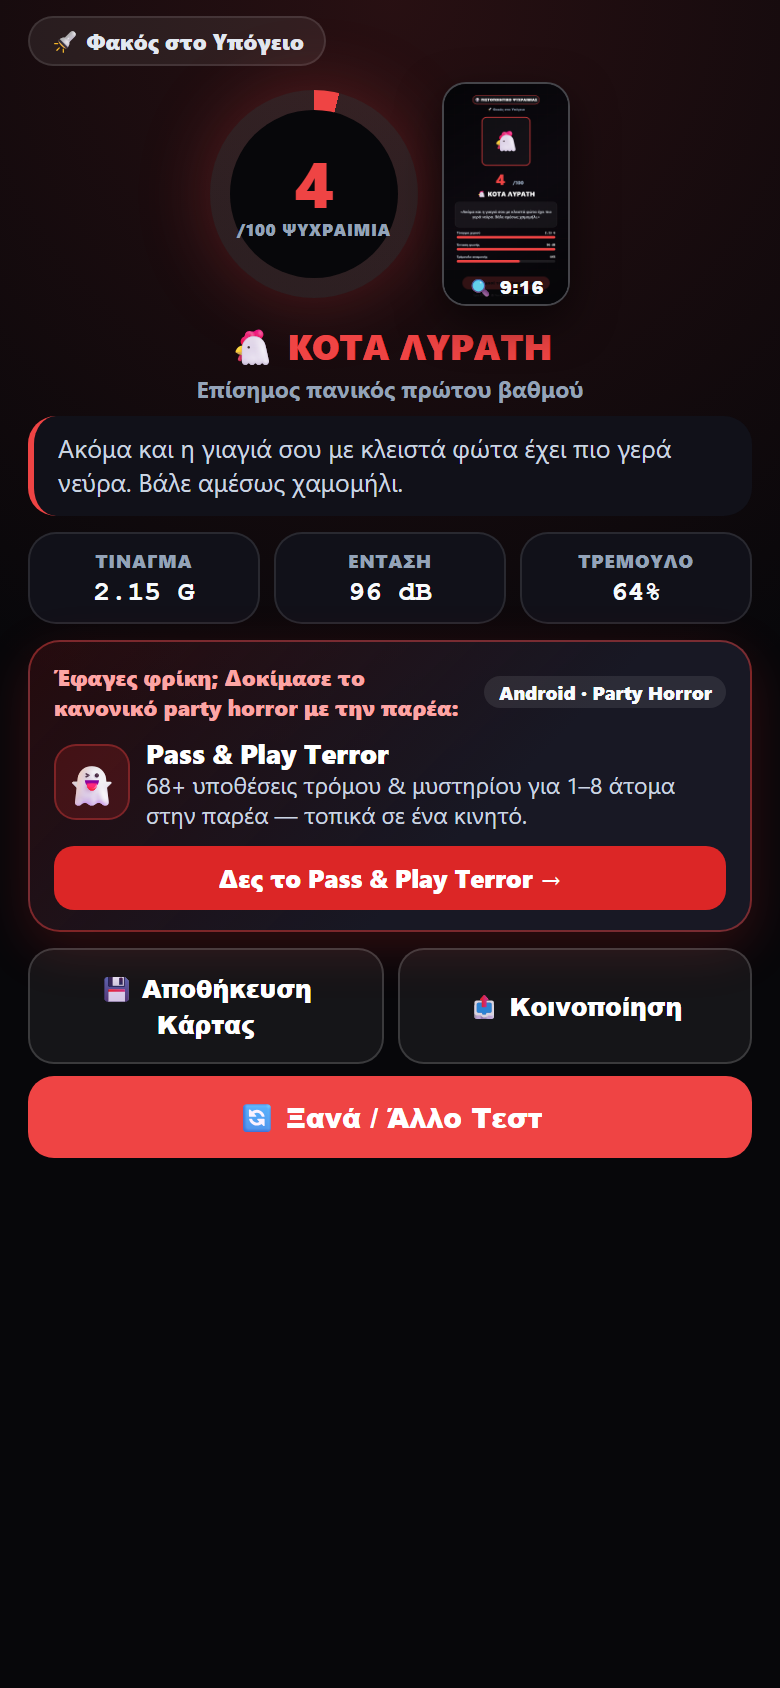
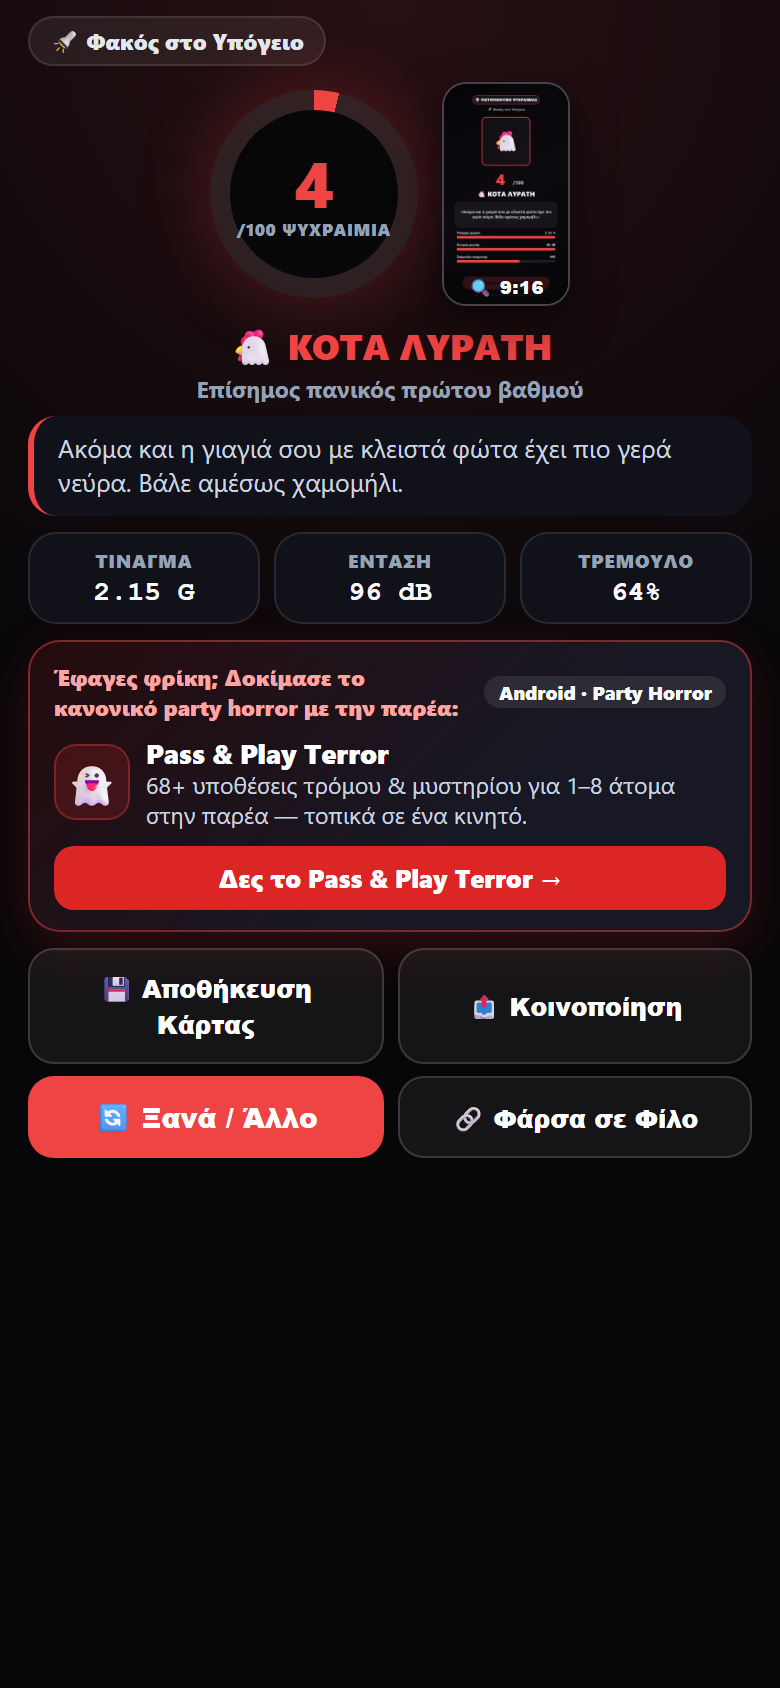
release(v1.3.0): spot-diff, hearing-age prank & secret ?mode links

Changed region(s): [[0.4615, 0.6161, 0.9846, 0.7085], [0.3077, 0.6469, 0.4615, 0.6777], [0.1231, 0.6469, 0.2769, 0.6777]]

diff --git a/README.md b/README.md
@@ -56,7 +56,7 @@
   2. **Ουρλιαχτό (dB):** Μετράει το ambient baseline και το peak κλάμα/φωνή στο σοκ.
   3. **Αντίδραση Προσώπου (Camera):** Ανιχνεύει απότομη κίνηση & κρατάει **Peak Reaction Snapshot**.
   4. **Τρέμουλο Αναμονής:** Μετράει πόσο τρέμεις *πριν* σκάσει η σκηνή.
-* **🎭 4 Ενεργές Δοκιμασίες Συγκέντρωσης (Μηδέν Προειδοποιήσεις):** `Κόκκινο Φως (3-Level Maze)`, `Φακός στο Υπόγειο (4 Κωδικοί)`, `Κάμερα 03:00 (Εστίαση Φακού)` & `Κρυφή Φάρσα: Τεστ Όρασης 20/20` (3 κλινικά βήματα) — χωρίς κανένα HUD ή ηχητικό spoiler πριν το σοκ!
+* **🎭 6 Ενεργές Δοκιμασίες Συγκέντρωσης & 3 Κρυφά Links Φάρσας (`?mode=eye|diff|hearing`):** `Κόκκινο Φως (3-Level Maze)`, `Φακός στο Υπόγειο`, `Κάμερα 03:00` + **3 αθώες κρυφές φάρσες** (*Τεστ Όρασης 20/20*, *Βρες τις 3 Διαφορές*, *Τεστ Ακοής Hz*) με μηδέν HUD/ηχητικά spoilers πριν το σοκ!
 * **💀 4 Φωτορεαλιστικά Jumpscares & 4 Εναλλασσόμενες Πραγματικές Κραυγές:** 4 αληθοφανείς εικόνες τρόμου με VHS slice glitch, zoom lunge & strobe flash, συνδυασμένες με 4 δυνατές, απότομες κραυγές (`0 ms` επίθεση) που αλλάζουν σε κάθε γύρο.
 * **🎴 Προεπισκόπηση Κάρτας 9:16, Save & Share (+ Split-Screen Video):** Άμεση προεπισκόπηση & ξεχωριστά κουμπιά **💾 Αποθήκευση** (Gallery / PNG) & **📤 Κοινοποίηση** για TikTok / Reels / Stories.
 * **👥 Solo & Παρέα (2–6 άτομα):** Στέφει τον **👑 Πιο Ψύχραιμο** και την **🐔 Κότα της Παρέας**.

diff --git a/CHANGELOG.md b/CHANGELOG.md
@@ -1,5 +1,10 @@
 # Changelog — Έχεις Κότσια; (`Do You Have the Guts?`)
 
+## v1.3.0 (2026-11-20)
+* 🔗 **Κρυφά Links Φάρσας (`?mode=eye`, `?mode=diff`, `?mode=hearing`):** Στέλνεις link σε φίλο που ανοίγει **κατευθείαν** το αθώο τεστ (χωρίς νεκροκεφαλές ή προειδοποιήσεις) — και μετά το σοκ βλέπει την κάρτα του **Pass & Play Terror** + link για να το στείλει παρακάτω!
+* 🖼 **Νέα Δοκιμασία «Βρες τις 3 Διαφορές»:** Βρίσκει 2 εύκολες διαφορές ανάμεσα στις δύο εικόνες — η 3η δεν υπάρχει, οπότε κολλάει στην οθόνη μέχρι να σκάσει!
+* 🎧 **Νέα Δοκιμασία «Τεστ Ηλικίας Ακοής (Hz)»:** Κλινικό τεστ συχνοτήτων (`16.500 Hz → 14.000 Hz → 11.500 Hz`) που κάνει τον παίκτη να δυναμώσει μόνος του τον ήχο στο 100% πριν την κραυγή!
+
 ## v1.2.3 (2026-11-20)
 * 👻 **Pass & Play Terror Promo Above the Fold:** Εμφάνιση της κάρτας **«👻 Pass & Play Terror»** ως βασικής πρότασης τρόμου στην οθόνη αποτελέσματος 100% ορατής **χωρίς scrolling** (μαζί με σκορ, mini preview κάρτας `🔍 9:16`, Αποθήκευση & Κοινοποίηση), καθώς και στο footer της εξαγόμενης 9:16 PNG κάρτας.
 
